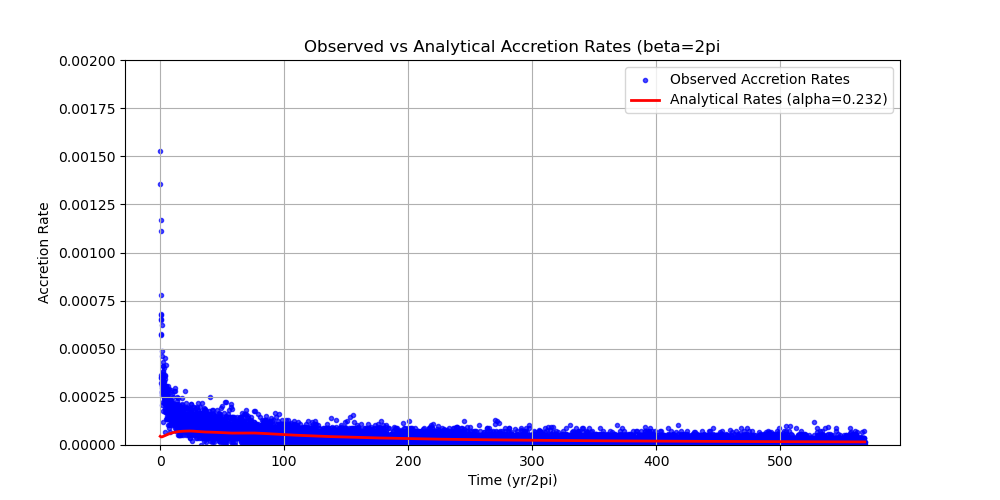
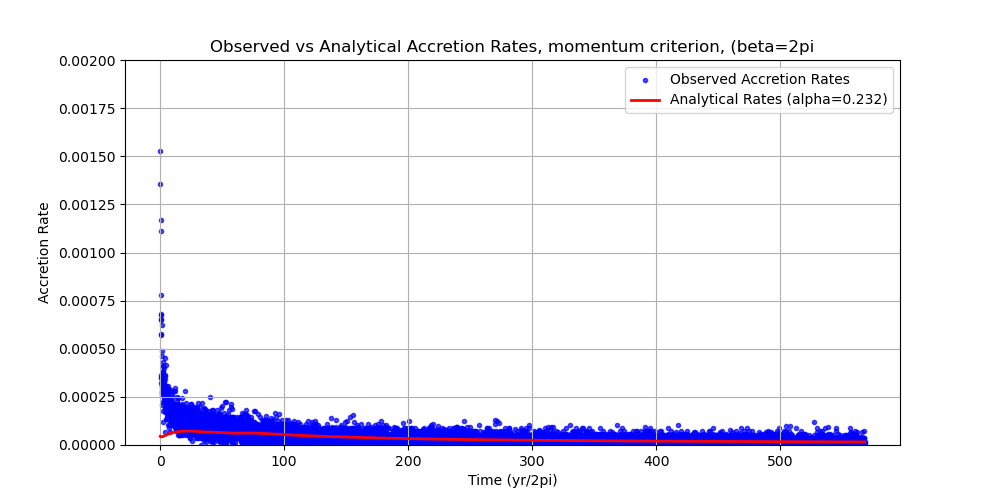
plots and some subgrid development

Changed region(s): [[0.217, 0.06, 0.806, 0.12]]

diff --git a/physics/Planet/include/accretion_impl_subgrid.hpp b/physics/Planet/include/accretion_impl_subgrid.hpp
@@ -1,0 +1,85 @@
+//
+// adjusted ConditionImplAng function to remove particles based on angular momentum
+// Created by Noah Kubli on 14.03.2024.
+//
+
+#pragma once
+
+#include <algorithm>
+#include <execution>
+#include <numeric>
+#include <vector>
+#include <iostream>
+#include "cstone/tree/definitions.h"
+
+namespace planet
+{
+
+template<typename Dataset, typename DiskData, typename StarData>
+// TODO: implement accretion based on radial condition for subdisk 
+void computeAccretionConditionImplSubGridDisk(size_t first, size_t last, Dataset& d, DiskData& disk, StarData& star)
+{
+
+    double accr_mass{};
+    double accr_c{}; 
+    size_t n_accreted{};
+
+    double boundary_mass{}; 
+    double boundary_r0{}; 
+    double boundary_rho{};
+    double boundary_T{};
+    double boundary_sigma0{};
+    double n_boundary{};
+
+    auto remove_and_sum = [&d](size_t i, double& mass_sum, size_t& n_sum, double& c_sum)
+    {
+        d.keys[i] = cstone::removeKey<typename Dataset::KeyType>::value;
+        mass_sum += d.m[i];
+        c_sum += d.c[i];
+        n_sum++;
+    };
+
+    auto add_to_boundary = [&d](size_t i, double& mass_boundary, size_t& n_boundary, double& r0_boundary, double& rho_boundary, double& T_boundary, double dist2, double& sigma0_boundary)
+    {
+        mass_boundary += d.m[i];
+        r0_boundary += dist2;
+        rho_boundary += d.rho[i]*d.rho[i];
+        T_boundary += d.u[i]*d.u[i];
+        sigma0_boundary += d.m[i]/(M_PI*d.h[i]*d.h[i]);
+        n_boundary++;
+    };
+
+#pragma omp parallel for reduction(+ : accr_mass) reduction(+ : accr_c) reduction(+ : n_accreted)              \
+    reduction(+ : boundary_mass) reduction(+ : n_boundary) reduction(+ : boundary_r0) reduction(+ : boundary_rho)    \
+    reduction(+ : boundary_T) reduction(+ : boundary_sigma0)
+    for (size_t i = first; i < last; i++)
+    {
+        const double dx    = d.x[i] - star.position[0];
+        const double dy    = d.y[i] - star.position[1];
+        const double dz    = d.z[i] - star.position[2];
+        const double dist2 = dx * dx + dy * dy + dz * dz;
+
+        // radial criterion based on smoothing length -> accrete onto disk: 
+        if (dist2 < 2*d.h[i]) { remove_and_sum(i, accr_mass, n_accreted, accr_c,); }
+        // radial criterion for boundary -> 2h < r < 3h & minimum number of neighbors 
+        else if (dist2 > 2*d.h[i] && dist2 < 3*d.h[i] && d.nc >= 150) { add_to_boundary(i, boundary_mass, n_boundary, boundary_r0, boundary_rho, boundary_T, dist2, boundary_sigma0); }
+        
+        // Q: does the disk also need a removal limit? 
+        //else if (d.h[i] > star.removal_limit_h) { remove_and_sum(i, removed_mass, removed_mom, n_removed); }
+    }
+
+
+    disk.m_accreted_local    = accr_mass;
+    disk.c_accreted_local    = accr_c;
+    disk.r0_local            = boundary_r0;
+    disk.n_accreted_local    = n_accreted;
+
+    disk.n_boundary_local    = n_boundary;
+    disk.rho_boundary_local  = boundary_rho;
+    disk.T_boundary_local    = boundary_T;
+    disk.sigma0_local        = boundary_sigma0;
+
+    
+}
+
+} // namespace planet

diff --git a/physics/Planet/include/subgrid_disk_data.hpp b/physics/Planet/include/subgrid_disk_data.hpp
@@ -12,15 +12,10 @@ struct DiskData
     double                m{0.};
     double                c{0.}; // sound speed of the disk
     double                H_r{0.5}; // disk H/r ratio
-    //double                r_in{1e-5}; // inner radius of the disk
-    double                r_out{1.}; // outer radius of the disk -> should be 2 or 3 times h 
-    std::vector<double>   surface_density_profile{};
-    std::vector<double>   temperature_profile{};
-    size_t                num_radial_bins{100};
-    //double r_step         {(r_out - r_in) / num_radial_bins};
+    double                r0{1.}; // outer radius of the disk -> should be 2 or 3 times h 
     double                rho_boundary{0.}; // density at outer boundary of disk
     double                T_boundary{0.}; // temperature at outer boundary of disk
-    double                sigma_0{0.}; // surface density at outer boundary of disk (sigma naught)
+    double                sigma0{0.}; // surface density at outer boundary of disk (sigma naught)
 
 
     // Q: can use this as such even if nothing will be in input file? Or how else to initialize? 
@@ -45,23 +40,22 @@ struct DiskData
         };
         optionalIO("disk::m", &m, 1);
         optionalIO("disk::c", &c 1);
-        optionalIO("disk::H", &H, 1);
-        optionalIO("disk::num_radial_bins", &num_radial_bins, 1);
-        optionalIO("disk::r_out", &r_out, 1);
-        optionalIO("disk::surface_density_profile", surface_density_profile.data(), num_radial_bins);
-        optionalIO("disk::temperature_profile", temperature_profile.data(), num_radial_bins); 
+        optionalIO("disk::H_r", &H_r, 1);
+        optionalIO("disk::r0", &r0, 1);
         optionalIO("disk::rho_boundary", &rho_boundary, 1);
         optionalIO("disk::T_boundary", &T_boundary, 1);
-        optionalIO("disk::sigma_0", &sigma_0, 1);
+        optionalIO("disk::sigma0", &sigma0, 1);
         
     }; 
 
     // Local to Rank
 
     double                m_accreted_local_subdisk{};
+    double                c_accreted_local{};
+    double                n_accreted_local{};   
     double                rho_boundary_local{};
-    double                temp_boundary_local{}; 
-    double                sigma_0_local{};
-    double                sound_speed_boundary_local{}; 
-    size_t                n_boundary_particles{};
+    double                T_boundary_local{}; 
+    double                sigma0_local{}; 
+    size_t                n_boundary_local{};
+    double                r0_local{};
 };

diff --git a/physics/Planet/include/subGridAccreteOnStar.hpp b/physics/Planet/include/subGridAccreteOnStar.hpp
@@ -14,25 +14,41 @@ namespace planet
 template<typename Dataset, typename DiskData, typename StarData>
 void SubGridDiskAccreteOnStar(Dataset& d, DiskData& disk, StarData& star, double dt, int rank)
 {
+    // finish editing this section -> 
+    // add global reductions for disk parameters
+    // adjust calculations for sigma & mass accretion rate
     double alpha = 0.1; 
     double m_accreted_global{};
     double c_global_avg{}
+    double n_accreted_global{};
+    double r0_global{};
+    double sigma0_global{};
+    double rho_boundary_global_avg{};
+    double T_boundary_global_avg{};
+    double n_boundary_global{};
+
     MPI_Reduce(&disk.m_accreted_local_subdisk, m_accreted_global, 1, MpiType<double>{}, MPI_SUM, 0, MPI_COMM_WORLD);
-    MPI_Reduce(&disk.sound_speed_boundary_local, c_global_avg, 1, MpiType<double>{}, MPI_AVG, 0, MPI_COMM_WORLD);
+    MPI_Reduce(&disk.n_accreted_local, n_accreted_global, 1, MpiType<double>{}, MPI_SUM, 0, MPI_COMM_WORLD);
+    // reductions on averaging parameters -> rms calculation 
+    MPI_Reduce(&disk.c_accreted_local, c_global_avg, 1, MpiType<double>{}, MPI_AVG, 0, MPI_COMM_WORLD);
+    MPI_Reduce(&disk.c_accreted_local, c_global_avg, 1, MpiType<double>{}, MPI_AVG, 0, MPI_COMM_WORLD);
 
     auto M_dot = [&star, &disk](double nu, double sigma)
     {
-        double denominator = 1 - std::sqrt(star.inner_size / disk.r_out);
+        double denominator = 1 - std::sqrt(star.inner_size / disk.r0);
         return (3 * M_PI * nu * disk.sigma_0 * sigma) / denominator;
     };
 
-    auto sigma_norm = []
-    // TO-DO: determine which radius to use for scale height calculation
+    auto sigma_norm = [] 
+    {
+        
+    };
     if (rank == 0){
+        // change the disk.c thing
         double mw_c_boundary = c_global_avg*c_global_avg*m_accreted_global;
         double mw_c_disk = disk.m * disk.c * disk.c;
         disk.c = std::sqrt((mw_c_boundary + mw_c_disk) / (m_accreted_global + disk.m));
-        double nu = alpha * disk.c * disk.H_r * disk.r; 
+        double nu = alpha * disk.c * disk.H_r * disk.r; // will be set? 
         double m_star_new = star.m + M_dot(nu, sigma) * dt; 
         double m_disk_new = disk.m + m_accreted_global - M_dot(nu, sigma) * dt; 
         star.m = m_star_new;

diff --git a/surface_density.py b/surface_density.py
@@ -8,15 +8,14 @@ from math import pi
 from scipy.spatial import cKDTree
 from matplotlib.colors import Normalize
 
-run_20 = './output/runs/run_disk_comb_20.hdf5'
-run_20_beta = '/home/lwatan/data/SPH-EXA-fork/output/runs/run_disk_comb_20_beta.hdf5'
+run_20 = './output/runs/run_disk_rad_20.hdf5'
+run_20_beta = '/home/lwatan/data/SPH-EXA-fork/output/runs/run_disk_rad_20_beta.hdf5'
 run_J_20 = './output/runs/run_disk_mom_20.hdf5'
 run_J_20_beta = './output/runs/run_disk_mom_20_beta.hdf5'
 run_radial = './output/runs/run_disk_radial_20.hdf5'
 plots = '/home/lwatan/data/SPH-EXA-fork/output/plots/surface-density/'
 run_50_beta = './output/runs/run_disk_mom_50_beta.hdf5'
 run_100_beta = '/home/lwatan/scratch/run_disk_mom_100_beta.hdf5'
-run_100_comb_beta = '/home/lwatan/scratch/run_disk_comb_100_beta.hdf5'
 run_100_radial_beta = '/home/lwatan/scratch/run_disk_radial_100_beta.hdf5'
 
 # constants
@@ -153,19 +152,19 @@ def plot_surface_density(t, x, y, surface_density, disk_mask, stride, beta, grid
     
     # Title for fixed or varying scale
     scale_type = "Fixed" if fixed_scale else "Dynamic"
-    plt.title(f'Surface Density at Timestep {t}, combined criteria (beta={beta}, {scale_type} Scale)')
+    plt.title(f'Surface Density at Timestep {t}, momentum criterion (beta={beta}, {scale_type} Scale)')
     plt.xlabel('X Position')
     plt.ylabel('Y Position')
     
     # Save the plot with scale type in filename
-    fname = f'surface_density_100_comb_hexbin_{t}_{beta}_{scale_type.lower()}.png'
+    fname = f'surface_density_100_mom_hexbin_{t}_{beta}_{scale_type.lower()}.png'
     plt.savefig(plots + fname, bbox_inches='tight', dpi=300)
     plt.show()
 
     
 if __name__ == '__main__':
     stride=1
-    ts, d, p, m, x, y, z, h, c_s, times, sx, sy, sz, sm = read_hdf5_data(run_100_radial_beta,stride)
+    ts, d, p, m, x, y, z, h, c_s, times, sx, sy, sz, sm = read_hdf5_data(run_100_beta,stride)
     r, disk_particles = particle_radii2(x, y, z, m, sx, sy, sz, sm, ts)
     # Compute surface density for the specified timesteps
     sig_100k = surface_density(100000, d, x, y, h, m, disk_particles, stride)

diff --git a/mass_accretion_cluster.py b/mass_accretion_cluster.py
@@ -188,8 +188,8 @@ def plot_fit(observed_rates, sound_speeds, best_alpha, time, file_loc, beta, G=1
     plt.ylim(0, 0.002)
     plt.legend()
     plt.grid()
-    plt.title(f"Observed vs Analytical Accretion Rates, combined criteria, (beta={beta}")
-    fname = f'analytical_accretion_{beta}_100_comb.png'
+    plt.title(f"Observed vs Analytical Accretion Rates, momentum criterion, (beta={beta}")
+    fname = f'analytical_accretion_{beta}_100_mom.png'
     plt.savefig(file_loc + fname)
     plt.tight_layout()
     plt.show()
@@ -211,7 +211,7 @@ if __name__ == "__main__":
     #mom_acc_50_beta = calc_mass_accretion(mom_m_50_beta, mom_t_50_beta)
     #best_alpha_50_beta = alpha_estimation(np.array(mom_acc_50_beta), np.array(mom_c_50_beta))
 
-    rad_m_100_beta, rad_c_100_beta, rad_t_100_beta = read_hdf5_data_2(run_100_comb_beta)
+    rad_m_100_beta, rad_c_100_beta, rad_t_100_beta = read_hdf5_data_2(run_100_beta)
     rad_acc_100_beta = calc_mass_accretion(rad_m_100_beta, rad_t_100_beta)
     best_alpha_100_beta = alpha_estimation(np.array(rad_acc_100_beta), np.array(rad_c_100_beta))
 
